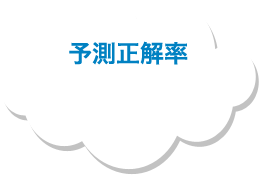
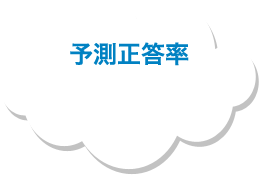
トップのスライドをレスポンシブに戻す前

Changed region(s): [[0.2462, 0.2273, 0.7385, 0.3693]]

diff --git a/css/local.css b/css/local.css
@@ -307,6 +307,8 @@ ul.menuBox dd a:hover {
 	line-height:120%;
 }
 
+
+
 #ind #mainImage #copy h3 {
 	color:#fff;
 	font-family:"Lucida Grande", "segoe UI", "ヒラギノ丸ゴ ProN W4","Hiragino Maru Gothic ProN",Meiryo, Arial, sans-serif;
@@ -393,6 +395,26 @@ ul.menuBox dd a:hover {
 	margin:0 auto;
 }
 
+#ind #mainImage .desc{
+	position:absolute;
+	top:780px;
+	left:0;	
+	background:#000;
+	width:300px;
+	padding:10px;
+	border-radius: 5px;
+    -webkit-border-radius: 5px;  
+    -moz-border-radius: 5px;
+    /*opacity: 0.5; */
+    /*background:url(../images/bg_minweather.png) 0 0 repeat;*/
+    background-color: rgba(0, 0, 0, 0.6);
+    color:#fff;
+    font-size:16px;
+    /*font-weight:bold;*/
+    text-align:left;
+    line-height:150%;
+}
+
 #ind #mainImage .minWeather{
 	position:absolute;
 	top:780px;
@@ -411,6 +433,16 @@ ul.menuBox dd a:hover {
     font-weight:bold;
     font-size:24px;
 }
+
+/* A */
+#ind #mainImage .minWeather a {
+	color: #ffffff;
+	text-decoration: none;
+}
+#ind #mainImage .minWeather a:hover {
+	opacity: 0.7;
+}
+
 #ind .minWeather h4 {
 	text-align:left;
 	margin-bottom:8px;
@@ -547,8 +579,15 @@ ul.menuBox dd a:hover {
 	margin-top:250px;
 	margin-bottom:10px;
 	line-height:120%;
-}
 
+}
+#mainImage.sub h2 span {
+	background:url(../images/bg_minweather.png) 0 0 repeat;
+	padding:0px 8px;
+	border-radius: 5px;
+    -webkit-border-radius: 5px;  
+    -moz-border-radius: 5px;
+}
 #mainImage.sub h2 em{
 	font-size:30px;
 	font-style:normal;

diff --git a/css/local_sp.css b/css/local_sp.css
@@ -73,7 +73,7 @@
 #ind #mainImage {
 	text-align:center;
 	width:100%;
-	height:200px;
+	height:230px;
 	margin:0 auto !important;
 	background-size:auto 70% !important;
 	top:0;

diff --git a/application/views/home/index.php b/application/views/home/index.php
@@ -12,7 +12,7 @@ main image
 #ind #mainImage .photo03{ background-image:url(images/slide/sapporo.jpg); }
 -->
 </style>
-<div id="mainImage">
+<div id="mainImage" class="home">
 <div id="mainImageInner">
     <!-- キャッチコピー/検索ボックス -->
     <div id="copy">
@@ -26,11 +26,15 @@ main image
             </div>
         </div>
     </div>
+
     <div id="slider">
         <!-- 画像01 -->
         <div class="boxPhoto photo01">
+            
             <div class="boxInner">
+                <div class="desc cf">ハレコは過去50年の過去データを元に、独自の天気予測エンジンを開発して未来の天気を予測しています。</div>
                 <div class="minWeather cf">
+                    <a href="<?php echo 'area/date/'.$slides['area'][30]->area_id.'/'.$slides['area'][30]->date; ?>">
                     <h4>東京エリア晴れる予測の連休</h4>
                     <div class="box">
                         <div class="icon"><img src="images/weather/icon/w_<?php echo $slides['area'][30]->daytime_icon_image; ?>" alt="<?php echo $slides['area'][30]->daytime; ?>" class="icon" /></div>
@@ -40,13 +44,18 @@ main image
                         <div class="icon"><img src="images/weather/icon/w_<?php echo $slides['area'][30]->tomorrow_daytime_icon_image; ?>" alt="<?php echo $slides['area'][30]->tomorrow_daytime; ?>" class="icon" /></div>
                         <div class="date"><?php echo date("n/j",strtotime($slides['area'][30]->date)+86400); ?></div>
                     </div>
+                    </a>
                 </div>
             </div>
+            
         </div>
+        
         <!-- 画像02 -->
         <div class="boxPhoto photo02">
             <div class="boxInner">
+                <div class="desc cf">1周間以上先の天気の予測正答確率は50%が限界と言われています。<br />ハレコでは6割を超える予測が可能な天気予測エンジンを開発しました。</div>
                 <div class="minWeather cf">
+                
                     <h4>箱根温泉晴れる予測の連休</h4>
                     <div class="box">
                         <div class="icon"><img src="images/weather/icon/w_<?php echo $slides['spring']->daytime_icon_image; ?>" alt="<?php echo $slides['spring']->daytime; ?>" class="icon" /></div>
@@ -62,6 +71,7 @@ main image
         <!-- 画像03 -->
         <div class="boxPhoto photo03">
             <div class="boxInner">
+                <div class="desc cf">6割を高いか低いかを判断するのはユーザー様自身です。<br />絶対に晴れて欲しいおでかけやイベント等の計画の1つの指標にしてください。</div>
                 <div class="minWeather cf">
                     <h4>札幌エリア晴れる予測の連休</h4>
                     <div class="box">
@@ -87,6 +97,27 @@ contents
 -->
 <div id="contents">
     <div id ="contentsInner">
+
+        <div class="howtoBox cf">
+            <h3><span>ハレコの使い方</span></h3>
+            
+            <div class="step step01">
+                <h4>1.お出かけ場所を決める</h4>
+                <p>行きたい場所や温泉、家の近くの公園等でかける場所を選びます。</p>
+            </div>
+            <div class="step step02">
+                <h4>2.晴れの提案を受ける</h4>
+                <p>ハレコは各エリアの未来に晴れる日程を提案します。</p>
+            </div>
+            <div class="step step03">
+                <h4>3.晴れる予定を選択</h4>
+                <p>晴れる日を選んだらおでかけの予定を立ててください。</p>
+            </div>
+            <div class="step step04">
+                <h4>4.晴れてよかった！</h4>
+                <p>晴れの日程でおでかけすることができましたね！</p>
+            </div>
+        </div>
 
         <div id="weather">
 <?php
@@ -155,27 +186,6 @@ contents
                 <?php endfor; ?>
             </table>
         </div>
-
-            <div class="howtoBox cf">
-                <h3><span>ハレコの使い方</span></h3>
-                
-                <div class="step step01">
-                    <h4>1.お出かけ場所を決める</h4>
-                    <p>行きたい温泉や家の近くの場所を選びます。</p>
-                </div>
-                <div class="step step02">
-                    <h4>2.晴れの提案を受ける</h4>
-                    <p>ハレコは各エリアの未来に晴れる日程を提案します。</p>
-                </div>
-                <div class="step step03">
-                    <h4>3.晴れる予定を選択</h4>
-                    <p>晴れる日を選んだらおでかけの予定を立ててください。</p>
-                </div>
-                <div class="step step04">
-                    <h4>4.晴れてよかった！</h4>
-                    <p>晴れの日程でおでかけすることができましたね！</p>
-                </div>
-            </div>
 
         <div id="guide">
 

diff --git a/application/views/layout/footer/footer.php b/application/views/layout/footer/footer.php
@@ -7,15 +7,16 @@ footer
     <div id="footerInner">
         <div id="footerInnerIn" class="cf">
             <div class="boxLeft">
-                <h3>エリアから探す</h3>
+                <h3>晴れプランニング</h3>
                 <ul class="cf">
-                    <li><a href="#">北海道</a></li>
-                    <li><a href="#">東北</a></li>
-                    <li><a href="#">関東・信越</a></li>
-                    <li><a href="#">東北・北陸・近畿</a></li>
-                    <li><a href="#">中国・四国</a></li>
-                    <li><a href="#">九州</a></li>
-                    <li><a href="#">沖縄</a></li>
+                    <li><a href="/area/">エリア</a></li>
+                    <li><a href="/spring/">温泉地</a></li>
+                    <li><a href="/airport/">空港</a></li>
+                </ul>
+                <ul class="cf">
+                    <li><a href="/about/">ハレコについて</a></li>
+                    <li><a href="http://www.jalan.net/jw/jwp0000/jww0001.do">じゃらん Web サービス</a></li>
+                    
                 </ul>
             </div>
             <div class="boxRight"><span class="copy">copyrights &#169 hareko.jp</span></div>

diff --git a/application/views/layout/common/navi.php b/application/views/layout/common/navi.php
@@ -75,14 +75,15 @@ header
         </div>
     <?php if(isset($isHome)) : ?>
         <div id="cloud">
-            <h3>予測正解率</h3>
-            <span>67%</span>
+            <h3>予測正答率</h3>
+            <span><?php echo $odds->percentage; ?>%</span>
         </div>
     <?php endif; ?>
     </div>
     <!-- パンクズ -->
     <div id="breadcrumb" class="scrolltop">
         <div id="breadcrumbInner" class="cf">
+            <?php if(isset($isIndex)) : ?><div class="undisp"><?php endif; ?>
             <?php if(isset($topicpaths)) : ?>
             <?php foreach ($topicpaths as $key => $topicpath) : ?>
                 <?php if(strcasecmp($key,'news') == 0): ?>
@@ -91,6 +92,7 @@ header
                 <span><?php echo is_null($topicpath[0]) ? $topicpath[1] :  anchor($topicpath[0], $topicpath[1]); ?></span>
                 <?php endif; ?>
             <?php endforeach; ?>
+            <?php if(isset($isIndex)) : ?></div><?php endif; ?>
             <?php endif; ?>
     <?php if(!isset($isIndex)) : ?>
             <div id="searchBox">

diff --git a/application/views/layout/common/recommend_futures.php b/application/views/layout/common/recommend_futures.php
@@ -110,6 +110,8 @@
                             <?php else: ?>
                                 <a href="<?php echo '/spring/date/'.$springs[0]->id.'/0/'.$springs[0]->area_id.'/'.$future->date; ?>">
                             <?php endif; ?>
+                        <?php elseif($leisure_type == 'airport'): ?>
+                        <a href="<?php echo '/airport/date/'.$future->area_id.'/'.$future->date; ?>">
                         <?php else: ?>
                         <a href="<?php echo '/area/date/'.$future->area_id.'/'.$future->date; ?>">
                         <?php endif; ?>

diff --git a/application/views/area/date.php b/application/views/area/date.php
@@ -11,7 +11,7 @@ main image
         <div class="gradationRight"></div>
         <div id="copy">
             <div id="innerBox">
-                <h2><?php echo $all_areas[$area_id]->area_name; ?>エリア <?php echo $display_date; ?></h2>
+                <h2><span><?php echo $all_areas[$area_id]->area_name; ?>エリア <?php echo $display_date; ?></span></h2>
                 <!--<h3>幻と現実がぶつかり合う。映画の舞台のようなニューヨークの街。</h3>-->
             </div>
         </div>

diff --git a/application/models/odds_model.php b/application/models/odds_model.php
@@ -64,6 +64,17 @@ class Odds_model extends CI_Model
         return array();
     }
 
+    function getOddsByMaxId()
+    {
+        $query = $this->db->query("SELECT *
+                                    FROM {$this->table_name}
+                                    WHERE id = (SELECT MAX(id) FROM {$this->table_name})"
+        );
+
+        if ($query->num_rows() == 1) return $query->row();
+        return array();
+    }
+
     function getOddsesOrder($order, $page)
     {
         $result = array();

diff --git a/application/views/spring/date.php b/application/views/spring/date.php
@@ -11,7 +11,7 @@ main image
         <div class="gradationRight"></div>
         <div id="copy">
             <div id="innerBox">
-                <h2><?php echo $springs[0]->spring_name; ?> <?php echo $display_date; ?></h2>
+                <h2><span><?php echo $springs[0]->spring_name; ?> <?php echo $display_date; ?></span></h2>
                 <!--<h3>幻と現実がぶつかり合う。映画の舞台のようなニューヨークの街。</h3>-->
             </div>
         </div>

diff --git a/application/views/layout/header/header.php b/application/views/layout/header/header.php
@@ -27,11 +27,13 @@ $(function(){
     /*- スライダー */
     $('#slider').bxSlider({
         auto:true,
-        speed:6000,
+        speed:5000,
+        pause:5000,
         mode: 'fade',
         hideControlOnEnd:false,
         pager:false,
-        captions: false
+        captions: false,
+        autoHover:true
     });
     <?php if(isset($isBigSlide)) : ?>
     $('#slider').append('<div class="big_gradationLeft"></div><div class="big_gradationRight"></div>');

diff --git a/application/views/area/show.php b/application/views/area/show.php
@@ -11,7 +11,7 @@ main image
         <div class="gradationRight"></div>
         <div id="copy">
             <div id="innerBox">
-                <h2><?php echo $all_areas[$area_id]->area_name; ?>エリア</h2>
+                <h2><span><?php echo $all_areas[$area_id]->area_name; ?>エリア</span></h2>
                 <!--<h3>幻と現実がぶつかり合う。映画の舞台のようなニューヨークの街。</h3>-->
             </div>
         </div>

diff --git a/application/controllers/home.php b/application/controllers/home.php
@@ -37,7 +37,10 @@ class Home extends MY_Controller
         $data['isIndex'] = TRUE;
         $data['isSlide'] = TRUE;
         $data['bodyId'] = 'ind';
-
+        
+        //確率
+        $this->load->model('Odds_model');
+        $data['odds'] = $this->Odds_model->getOddsByMaxId();
         /*
         連休提案
         百万都市を表示
